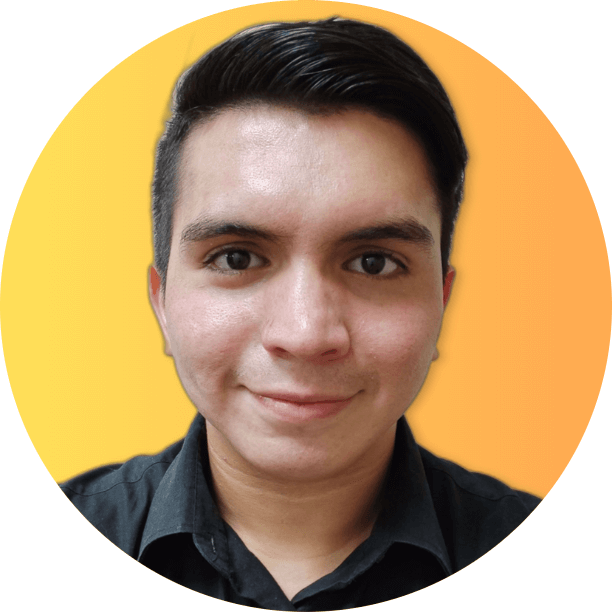
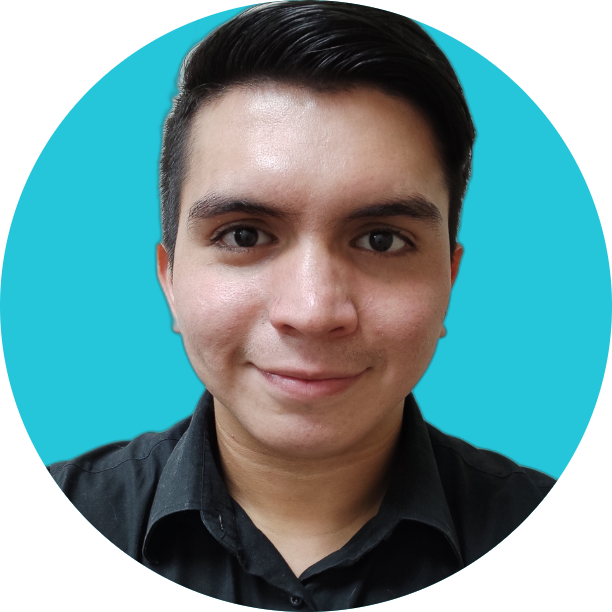
Change colors and hero

diff --git a/styles/module.css b/styles/module.css
@@ -43,7 +43,7 @@ h4 {
   width: 100%;
   align-items: center;
   transform: translateX(-300px);
-  transition: 1s ease-in-out all;
+  transition: 0.7s ease-in-out all;
   opacity: 0;
   background-color: rgba(0, 0, 0, 0.75);
   z-index: 2;
@@ -63,6 +63,9 @@ h4 {
   font-family: "Raleway", sans-serif;
   text-decoration: none;
   letter-spacing: 0.7rem;
+}
+.header .change_ht {
+  background-color: #26c6dab3;
 }
 .header .nav__list {
   display: flex;
@@ -106,6 +109,7 @@ h4 {
   transform: translateY(200px);
   transition: 1s ease-in-out all;
   opacity: 0;
+  margin-top: 30px;
 }
 .header__hero img {
   width: 145px;
@@ -178,7 +182,7 @@ h4 {
   line-height: 2.1rem;
 }
 .aboutme__personal li a {
-  color: #ffa500;
+  color: #26c6da;
   text-decoration: none;
 }
 .aboutme__personal .nav__list-item-link {
@@ -186,7 +190,7 @@ h4 {
   overflow: hidden;
   color: white;
   font-weight: 400;
-  background-color: #ffa500;
+  background-color: #26c6da;
   margin-right: 5px;
   font-size: 1.5rem;
   padding: 15px 25px;
@@ -269,7 +273,7 @@ h4 {
 }
 .habilities__item div {
   font-size: 2rem;
-  background-color: #ffa500;
+  background-color: #26c6da;
   color: white;
   border-radius: 50%;
   width: 68px;
@@ -294,7 +298,7 @@ h4 {
 .habilities .habilities__item::before {
   content: "";
   height: 3px;
-  background-color: #ffa500;
+  background-color: #26c6da;
   width: 20px;
   position: absolute;
   top: 0;
@@ -376,7 +380,7 @@ h4 {
   overflow: hidden;
   color: white;
   font-weight: 400;
-  background-color: #ffa500;
+  background-color: #26c6da;
   margin-right: 5px;
   font-size: 1.5rem;
   padding: 15px 25px;
@@ -480,18 +484,18 @@ h4 {
   border-radius: 10px;
 }
 .contact label textarea::-webkit-scrollbar-thumb:hover {
-  background: #ffa500;
+  background: #26c6da;
 }
 .contact label input:focus,
 .contact label textarea:focus {
-  border-bottom: 1px solid #ffa500;
+  border-bottom: 1px solid #26c6da;
 }
 .contact button {
   position: relative;
   overflow: hidden;
   color: white;
   font-weight: 400;
-  background-color: #ffa500;
+  background-color: #26c6da;
   margin-right: 5px;
   font-size: 1.5rem;
   padding: 15px 25px;
@@ -553,7 +557,7 @@ h4 {
 }
 .contact li:hover i {
   font-size: 3.8rem;
-  color: #ffa500;
+  color: #26c6da;
 }
 
 .sendedMessage {
@@ -575,7 +579,7 @@ h4 {
   align-items: center;
   padding: 10px 20px;
   display: flex;
-  background-color: #ffa500;
+  background-color: #26c6da;
 }
 .sendedMessage__content-icon {
   font-size: 2.5rem;

diff --git a/index.html b/index.html
@@ -8,7 +8,7 @@
       href="/your-path-to-fontawesome/css/fontawesome.css"
       rel="stylesheet"
     />
-    <link rel="icon" href="./assets/icon-orange.png" type="image/png" />
+    <link rel="icon" href="./assets/icon.png" type="image/png" />
     <link rel="preconnect" href="https://fonts.googleapis.com" />
     <link rel="preconnect" href="https://fonts.gstatic.com" crossorigin />
     <link
@@ -63,9 +63,7 @@
         <div class="header__top">
           <div class="header__top-title">
             <a href="/"
-              ><img src="./assets/icon-orange.png" alt="" /><span
-                >DAVDEV</span
-              ></a
+              ><img src="./assets/icon.png" alt="icon" /><span>DAVDEV</span></a
             >
           </div>
           <nav class="nav">
@@ -107,7 +105,7 @@
             <p>Desarrollador web.</p>
           </div>
         </div>
-        <img src="./assets/hero-test2.jpg" class="header__image--bg" alt="" />
+        <img src="./assets/hero-test3.jpg" class="header__image--bg" alt="" />
         <div class="header__closer">
           <i class="fas fa-chevron-up"></i>
         </div>

diff --git a/styles/contact.css b/styles/contact.css
@@ -61,18 +61,18 @@
   border-radius: 10px;
 }
 .contact label textarea::-webkit-scrollbar-thumb:hover {
-  background: #ffa500;
+  background: #26c6da;
 }
 .contact label input:focus,
 .contact label textarea:focus {
-  border-bottom: 1px solid #ffa500;
+  border-bottom: 1px solid #26c6da;
 }
 .contact button {
   position: relative;
   overflow: hidden;
   color: white;
   font-weight: 400;
-  background-color: #ffa500;
+  background-color: #26c6da;
   margin-right: 5px;
   font-size: 1.5rem;
   padding: 15px 25px;
@@ -134,7 +134,7 @@
 }
 .contact li:hover i {
   font-size: 3.8rem;
-  color: #ffa500;
+  color: #26c6da;
 }
 
 .sendedMessage {
@@ -156,7 +156,7 @@
   align-items: center;
   padding: 10px 20px;
   display: flex;
-  background-color: #ffa500;
+  background-color: #26c6da;
 }
 .sendedMessage__content-icon {
   font-size: 2.5rem;

diff --git a/styles/breakpoints/tablet.css b/styles/breakpoints/tablet.css
@@ -6,14 +6,6 @@
   position: initial;
 }
 .header__top .nav {
-  transition: 0.5s;
-  background-color: black;
-  position: fixed;
-  left: 0;
-  top: -280px;
-  width: 100%;
-  height: 280px;
-  display: flex;
   display: none;
 }
 .header__top .nav__list {
@@ -31,6 +23,9 @@
 .header__top-title {
   margin: 0 auto;
 }
+.header__hero {
+  margin-top: -30px;
+}
 .header__hero-description h1 {
   font-size: 3rem;
 }
@@ -38,7 +33,7 @@
   font-size: 2rem;
 }
 .header__activators {
-  background-color: #ffaf52a6;
+  background-color: #26c6daa6;
   width: 70px;
   height: 70px;
   position: fixed;
@@ -58,7 +53,7 @@
 
 .nav-responsive {
   transition: 0.5s;
-  background-color: black;
+  background-color: rgba(0, 0, 0, 0.9);
   position: fixed;
   left: 0;
   top: -320px;

diff --git a/sass/breakpoints/tablet.scss b/sass/breakpoints/tablet.scss
@@ -6,14 +6,6 @@
   &__top {
     position: initial;
     .nav {
-      transition: 0.5s;
-      background-color: black;
-      position: fixed;
-      left: 0;
-      top: -280px;
-      width: 100%;
-      height: 280px;
-      display: flex;
       display: none;
     }
 
@@ -35,6 +27,7 @@
   }
 
   &__hero {
+    margin-top: -30px;
     &-description {
       h1 {
         font-size: 3rem;
@@ -46,7 +39,7 @@
   }
 
   &__activators {
-    background-color: #ffaf52a6;
+    background-color: #26c6daa6;
     width: 70px;
     height: 70px;
     position: fixed;
@@ -65,7 +58,7 @@
 
 .nav-responsive {
   transition: 0.5s;
-  background-color: black;
+  background-color: rgba(0, 0, 0, 0.9);
   position: fixed;
   left: 0;
   top: -320px;

diff --git a/intersections.js b/intersections.js
@@ -11,6 +11,7 @@ const intersections = () => {
     enters.forEach((enter) => {
       if (enter.isIntersecting) {
         if (enter.target.className === 'header') {
+          $headerTop.classList.remove('change_ht')
           $hero.classList.add('moveHero')
           $headerTop.classList.add('moveHeaderTop')
         }
@@ -27,6 +28,11 @@ const intersections = () => {
 
         if (enter.target.className === 'projects__item') {
           enter.target.classList.add('moveProject')
+        }
+      }
+      if (!enter.isIntersecting) {
+        if (enter.target.className === 'header') {
+          $headerTop.classList.add('change_ht')
         }
       }
     })

diff --git a/styles/header.css b/styles/header.css
@@ -16,7 +16,7 @@
   width: 100%;
   align-items: center;
   transform: translateX(-300px);
-  transition: 1s ease-in-out all;
+  transition: 0.7s ease-in-out all;
   opacity: 0;
   background-color: rgba(0, 0, 0, 0.75);
   z-index: 2;
@@ -36,6 +36,9 @@
   font-family: "Raleway", sans-serif;
   text-decoration: none;
   letter-spacing: 0.7rem;
+}
+.header .change_ht {
+  background-color: #26c6dab3;
 }
 .header .nav__list {
   display: flex;
@@ -79,6 +82,7 @@
   transform: translateY(200px);
   transition: 1s ease-in-out all;
   opacity: 0;
+  margin-top: 30px;
 }
 .header__hero img {
   width: 145px;

diff --git a/sass/header.scss b/sass/header.scss
@@ -18,7 +18,7 @@
     width: 100%;
     align-items: center;
     transform: translateX(-300px);
-    transition: 1s ease-in-out all;
+    transition: 0.7s ease-in-out all;
     opacity: 0;
     background-color: rgb(0 0 0 / 75%);
     z-index: 2;
@@ -40,6 +40,10 @@
         letter-spacing: 0.7rem;
       }
     }
+  }
+
+  .change_ht {
+    background-color: #26c6dab3;
   }
 
   .nav {
@@ -88,6 +92,7 @@
     transform: translateY(200px);
     transition: 1s ease-in-out all;
     opacity: 0;
+    margin-top: 30px;
     img {
       width: 145px;
       height: 151px;

diff --git a/styles/aboutme.css b/styles/aboutme.css
@@ -32,7 +32,7 @@
   line-height: 2.1rem;
 }
 .aboutme__personal li a {
-  color: #ffa500;
+  color: #26c6da;
   text-decoration: none;
 }
 .aboutme__personal .nav__list-item-link {
@@ -40,7 +40,7 @@
   overflow: hidden;
   color: white;
   font-weight: 400;
-  background-color: #ffa500;
+  background-color: #26c6da;
   margin-right: 5px;
   font-size: 1.5rem;
   padding: 15px 25px;

diff --git a/styles/habilities.css b/styles/habilities.css
@@ -32,7 +32,7 @@
 }
 .habilities__item div {
   font-size: 2rem;
-  background-color: #ffa500;
+  background-color: #26c6da;
   color: white;
   border-radius: 50%;
   width: 68px;
@@ -57,7 +57,7 @@
 .habilities .habilities__item::before {
   content: "";
   height: 3px;
-  background-color: #ffa500;
+  background-color: #26c6da;
   width: 20px;
   position: absolute;
   top: 0;

diff --git a/styles/projects.css b/styles/projects.css
@@ -57,7 +57,7 @@
   overflow: hidden;
   color: white;
   font-weight: 400;
-  background-color: #ffa500;
+  background-color: #26c6da;
   margin-right: 5px;
   font-size: 1.5rem;
   padding: 15px 25px;

diff --git a/sass/variables.scss b/sass/variables.scss
@@ -1,6 +1,6 @@
 $primary: #1e2233;
 $secondary: #24273d;
-$main: #ffa500;
+$main: #26c6da;
 $fontTitles: 'Raleway', sans-serif;
 $fontMain: 'Open Sans', sans-serif;
 $gray: #34343480;
